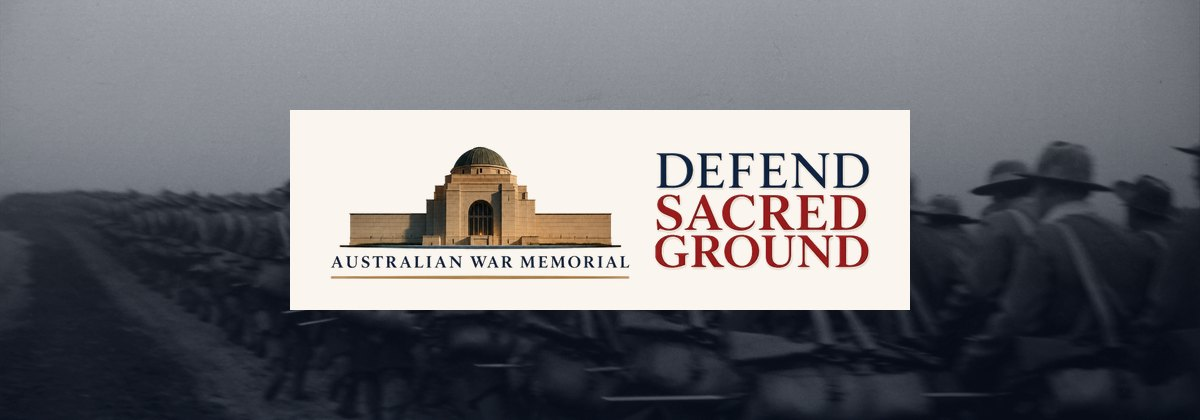
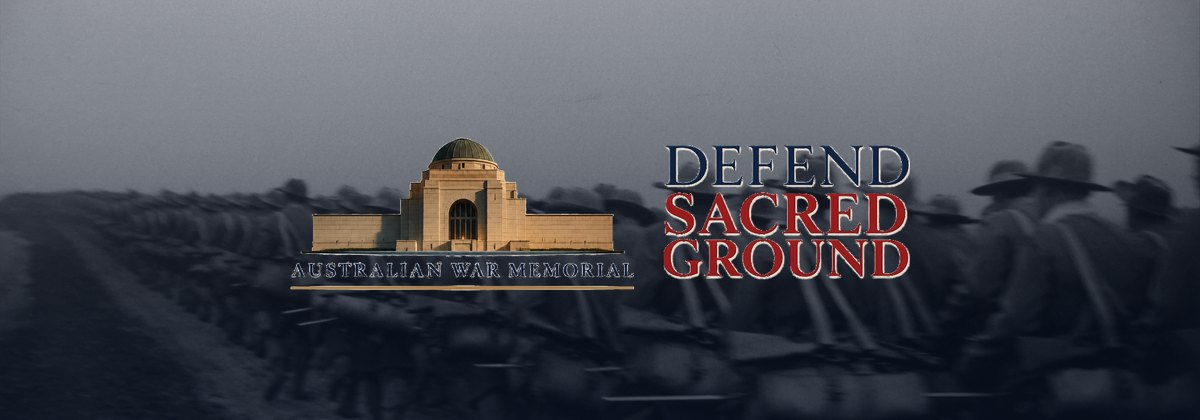
Email hero: drop the plate, mark straight onto the photograph
No panel behind the logo. It reads because the logo PNG carries a faint light
outline of its own, which is what separates navy and dark red lettering from a
dark greyscale ground. That is worth writing down: swap in a version of the
mark without that outline and this stops working, and the fix then is a lighter
photograph, not a panel back behind it.

Scrim lifted slightly, 30 to 52 per cent, so the middle stays dark enough for
the outline to do its job without flattening the ranks either side.

The mark is larger now that it is not boxed in, 620px across the 1200px frame.

Same filename, so the four Nucleus templates pick it up with no edit. Safe
because none of them has ever been sent: nothing is holding a cached copy.

Claude-Session: https://claude.ai/code/session_014R1CHxvkQDJ1vq7frb5bKv

Changed region(s): [[0.2158, 0.2476, 0.7708, 0.7429]]

diff --git a/scripts/make-email-hero.py b/scripts/make-email-hero.py
@@ -1,10 +1,11 @@
 # Build the email hero: the petition page's photograph, treated the same way,
-# with the campaign mark centred on a light plate.
+# with the campaign mark centred on it.
 #
-# The plate is not decoration. The logo is navy and dark red on transparent and
-# it was drawn for a white ground, so laid straight onto a greyscale trench
-# photograph it disappears. The site already solves this the same way: the mark
-# gets its own light bar wherever the ground behind it is dark.
+# The mark sits directly on the photograph, with nothing behind it. That works
+# only because the logo PNG carries a faint light outline of its own, which is
+# what separates navy and dark red lettering from a dark greyscale ground. Take
+# a version of the logo without that outline and this stops reading, and the
+# answer then is a lighter photograph rather than a panel behind the mark.
 from PIL import Image, ImageEnhance
 import os
 
@@ -17,9 +18,7 @@ OUT = os.path.join(SRC, "email-hero.jpg")
 # forty per cent of the photograph is empty sky, and cropping it away is what
 # puts the marching column in the frame instead of a grey field.
 W, H = 1200, 420          # displays at 600x210, doubled for retina
-PLATE_W, PLATE_H = 620, 200
-LOGO_W = 540
-CREAM = (250, 246, 239)   # campaign cream
+LOGO_W = 620
 NAVY = (15, 27, 51)       # campaign deepest, for the scrim
 
 # ---- 1. the photograph, cropped the way the petition page crops it ----------
@@ -48,19 +47,14 @@ scrim = Image.new("RGB", (W, H), NAVY)
 mask = Image.new("L", (1, H))
 for y in range(H):
     t = y / (H - 1)
-    mask.putpixel((0, y), int(255 * (0.24 + 0.22 * t)))   # 24% at top, 46% at base
+    mask.putpixel((0, y), int(255 * (0.30 + 0.22 * t)))   # 30% at top, 52% at base
 photo = Image.composite(scrim, photo, mask.resize((W, H)))
 
-# ---- 3. the plate and the mark ---------------------------------------------
+# ---- 3. the mark, straight onto the photograph -----------------------------
 logo = Image.open(os.path.join(SRC, "logo-horizontal.png")).convert("RGBA")
 lw, lh = logo.size
 logo = logo.resize((LOGO_W, int(lh * LOGO_W / lw)), Image.LANCZOS)
-
-plate = Image.new("RGB", (PLATE_W, PLATE_H), CREAM)
-plate.paste(logo, ((PLATE_W - logo.width) // 2, (PLATE_H - logo.height) // 2), logo)
-
-px, py = (W - PLATE_W) // 2, (H - PLATE_H) // 2
-photo.paste(plate, (px, py))
+photo.paste(logo, ((W - logo.width) // 2, (H - logo.height) // 2), logo)
 
 photo.save(OUT, "JPEG", quality=86, optimize=True, progressive=True)
 print("wrote", OUT, photo.size, str(os.path.getsize(OUT) // 1024) + "KB")
